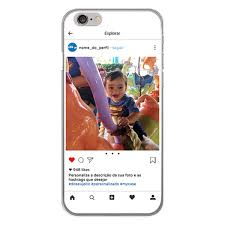
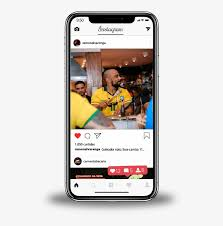
troca de foto e mais estilização

diff --git a/style.css b/style.css
@@ -10,7 +10,7 @@
 body {
     width: 100%;
     min-height: 100vh;
-    background-color: rgb(243, 243, 243);
+    background-color: rgb(245, 245, 245);
     margin: 0;
     padding: 0;
     display: flex;
@@ -33,5 +33,42 @@ body {
 }
 
 .instagram-phone img {
-    height: 50ren;
+    height: 50rem;
+    width: 50rem;
+}
+
+.instagram-continue {
+    display: flex;
+    align-items: center;
+    justify-content: space-around;
+    flex-direction: column;
+    width: 50%;
+    min-height: 34rem;
+}
+
+.group {
+    display: flex;
+    justify-content: space-between;
+    align-items: center;
+    flex-direction: column;
+    background-color: #FFFFFF;
+    width: 100%;
+    padding: 1.3rem 0;
+    border: 1 px solid rgb(211, 211, 211);
+}
+
+.group:nth-child(1) {
+    min-height: 19rem;
+}
+
+.instagram-logo {
+    height: 3 rem;
+}
+
+.profile-photo {
+    display: flex;
+    justify-content: center;
+    align-items: center;
+    border-radius: 50%;
+    overflow: hidden;
 }

diff --git a/index.html b/index.html
@@ -15,7 +15,7 @@
             <div class="group">
                 <img src="./img/Instagram-Logo.jpg" alt="Instagram Logo" class="instagram-logo">
                 <div class="profile-p">
-                    <img src="./img/Foto-perfil.jpg" alt="profile photo" class="profile-photo" width="200" height="300">
+                    <img src="./img/Foto-perfil.jpg" alt="profile photo" class="profile-photo" width="100" height="100">
                 </div>
                 <a href="#" class="instagram-login">Continue como danielsoaresfranco</a>
                 <a href="#" class="instagram-logout">remover conta</a>
